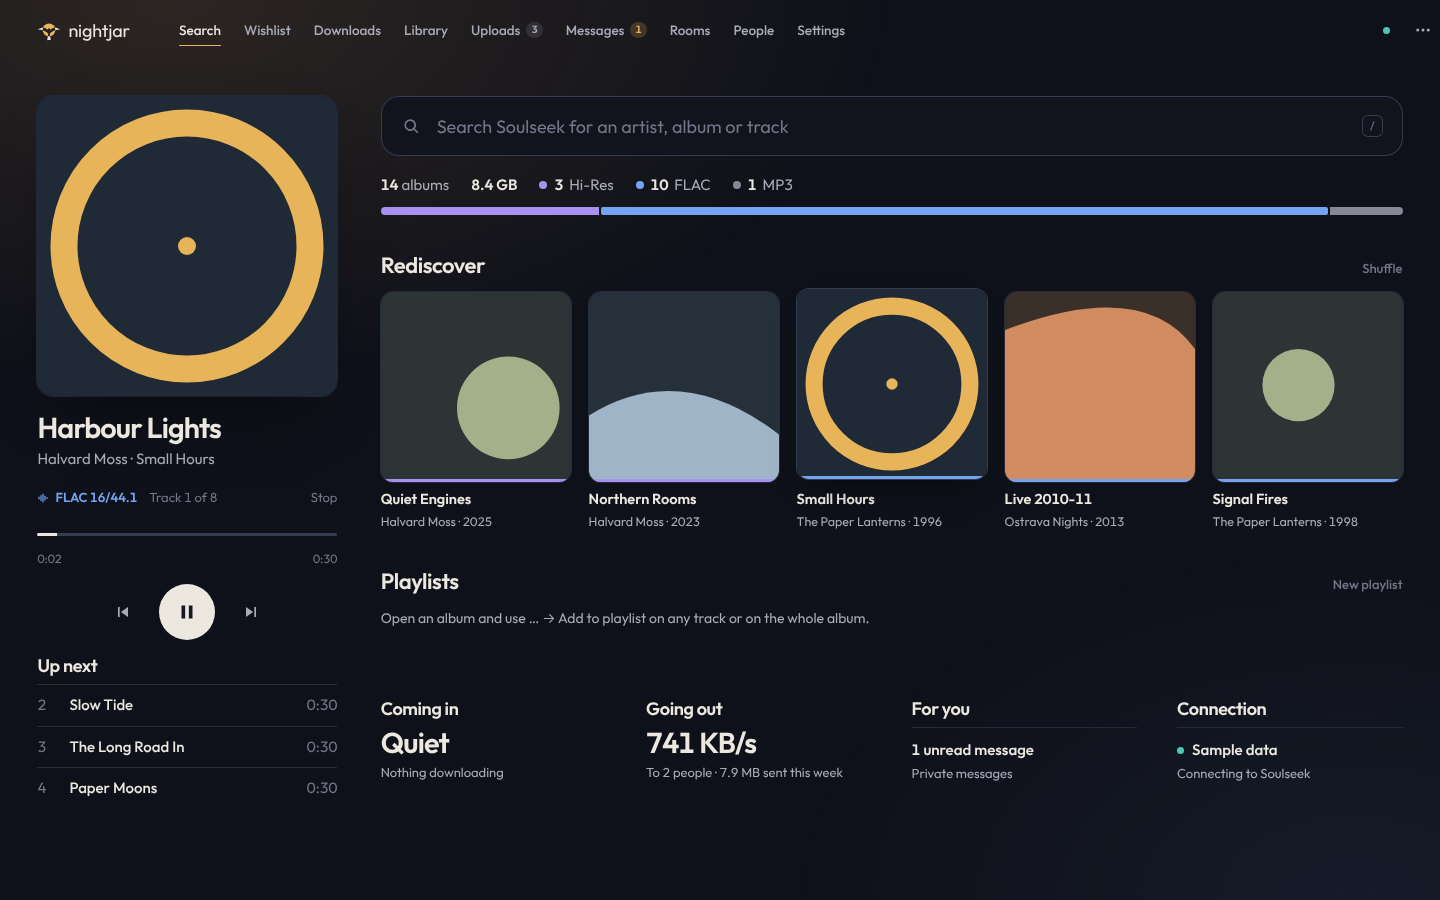
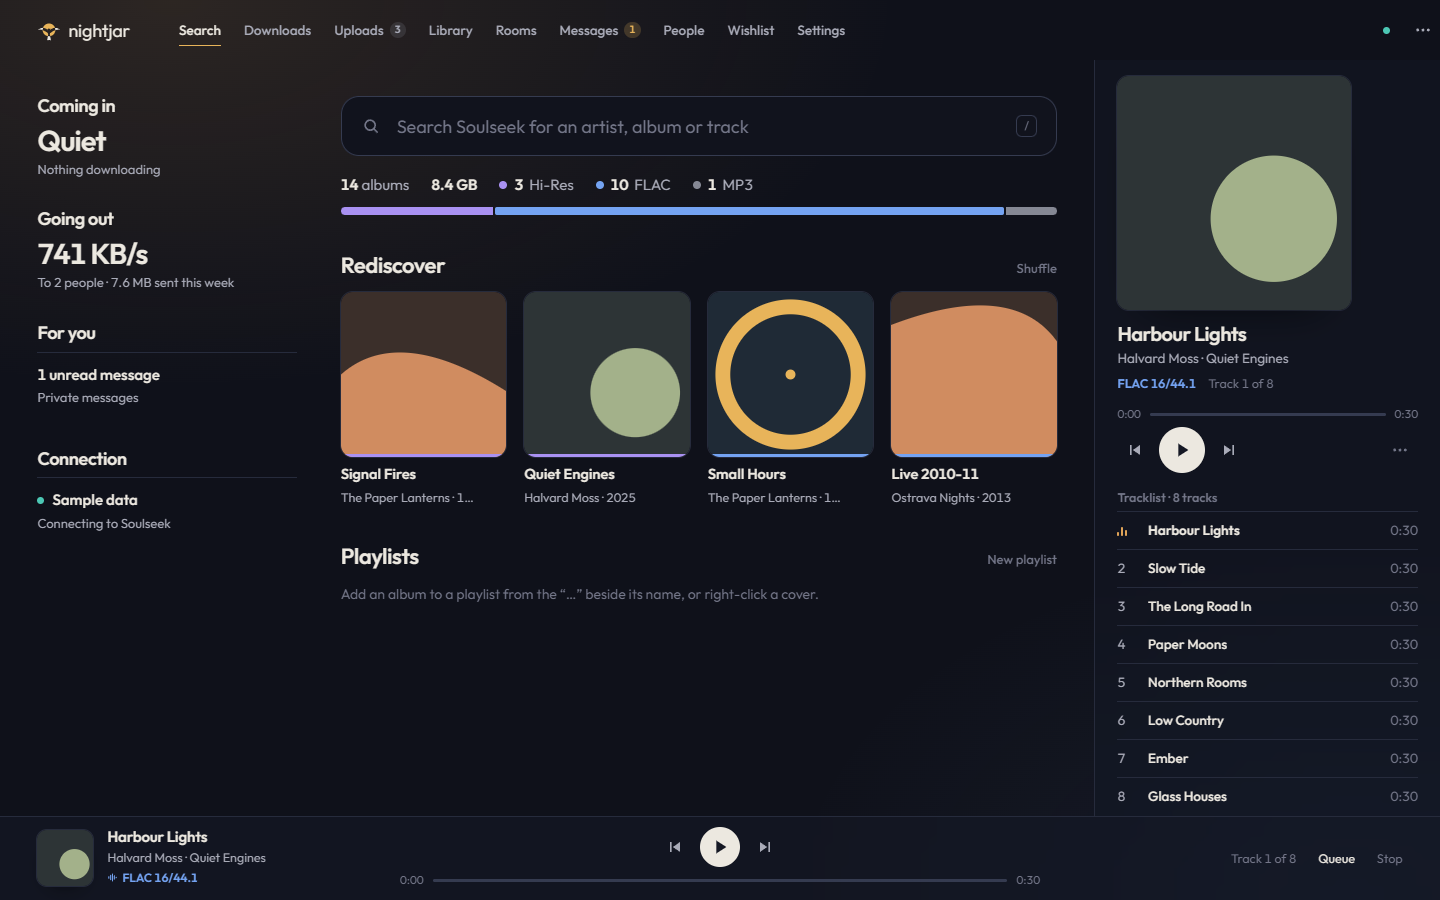
0.10.0: release notes and README cover the whole release; fresh screenshots of Home, Library and the large player

diff --git a/src/screens/AboutScreen.tsx b/src/screens/AboutScreen.tsx
@@ -51,7 +51,18 @@ const CHANGES: { version: string; date: string; title: string; items: string[] }
       'nightjar opens with the bird flying in, dropping the letters of its name and landing on the moon (the finished logo, if Reduce Motion is on)',
       'The opening screen follows your theme, on the computer and on phones',
       'New icons for the app, the Home Screen, the browser tab and the installer',
-      'Home: a cover plays the album in the player beside it instead of opening the large player',
+      'One Now panel on a computer: what is playing and the whole tracklist, docked at the right of every screen. The player bar along the bottom is on every screen too',
+      'The large player on a computer is calmer: one small type size, and Repeat, Shuffle, Use less data and the sleep timer behind a “…”',
+      'A new Home on a computer: search, your library at a glance, rows of covers and the day’s activity. A cover plays the album in the Now panel',
+      'A new Library, a wall of covers or a list, and the album you pick opens in the Now panel',
+      'A “…” beside each cover’s name, or a right-click, to play an album next, queue it or add it to a playlist',
+      'On a computer the window can be resized and made full screen, and remembers its size and place',
+      'Settings are split into sections',
+      'Protection: nightjar notices people downloading from you faster than a person could, and can block them. You can also limit how much one person may queue',
+      'Downloads that fail in a way that usually passes are tried again by themselves, a little later each time',
+      'A track already in an album’s folder is never fetched twice, and tracks that arrived twice are pointed out',
+      'Messages and Rooms look the same in every theme',
+      'On a phone, Home shows what is playing in a compact card',
       'On an iPad, rows of covers on Home swipe sideways',
       'Fixed the player on an iPad’s Home sliding over the activity below it',
     ],

diff --git a/README.md b/README.md
@@ -16,6 +16,10 @@ Website: **[lunice-dev.github.io/nightjar](https://lunice-dev.github.io/nightjar
 
 - **A new look.** A new logo (a nightjar crossing a full moon), new colours, a new typeface, and the name written in lowercase everywhere.
 - **A new opening.** The bird flies in, drops the letters of its name and lands on the moon. The opening screen follows your theme, on the computer and on phones.
+- **One Now panel.** On a computer, what's playing and the whole tracklist sit at the right of every screen, and the player bar along the bottom is always there. The large player is calmer, with Repeat, Shuffle, Use less data and the sleep timer behind a "…".
+- **A new Home and Library** on a computer: search, your library at a glance, rows of covers and the day's activity; the Library opens the album you pick in the same panel. A cover plays its album, and a "…" beside its name queues it or adds it to a playlist.
+- **Protection.** nightjar notices people downloading from you faster than a person could, and can block them; you can limit how much one person may queue.
+- **Downloads that mend themselves.** Failures that usually pass are tried again, a little later each time, and a track already in an album's folder is never fetched twice.
 - **Home on an iPad:** rows of covers swipe sideways, and tapping a cover plays the album in the player beside it.
 
 ## What's new in 0.8
